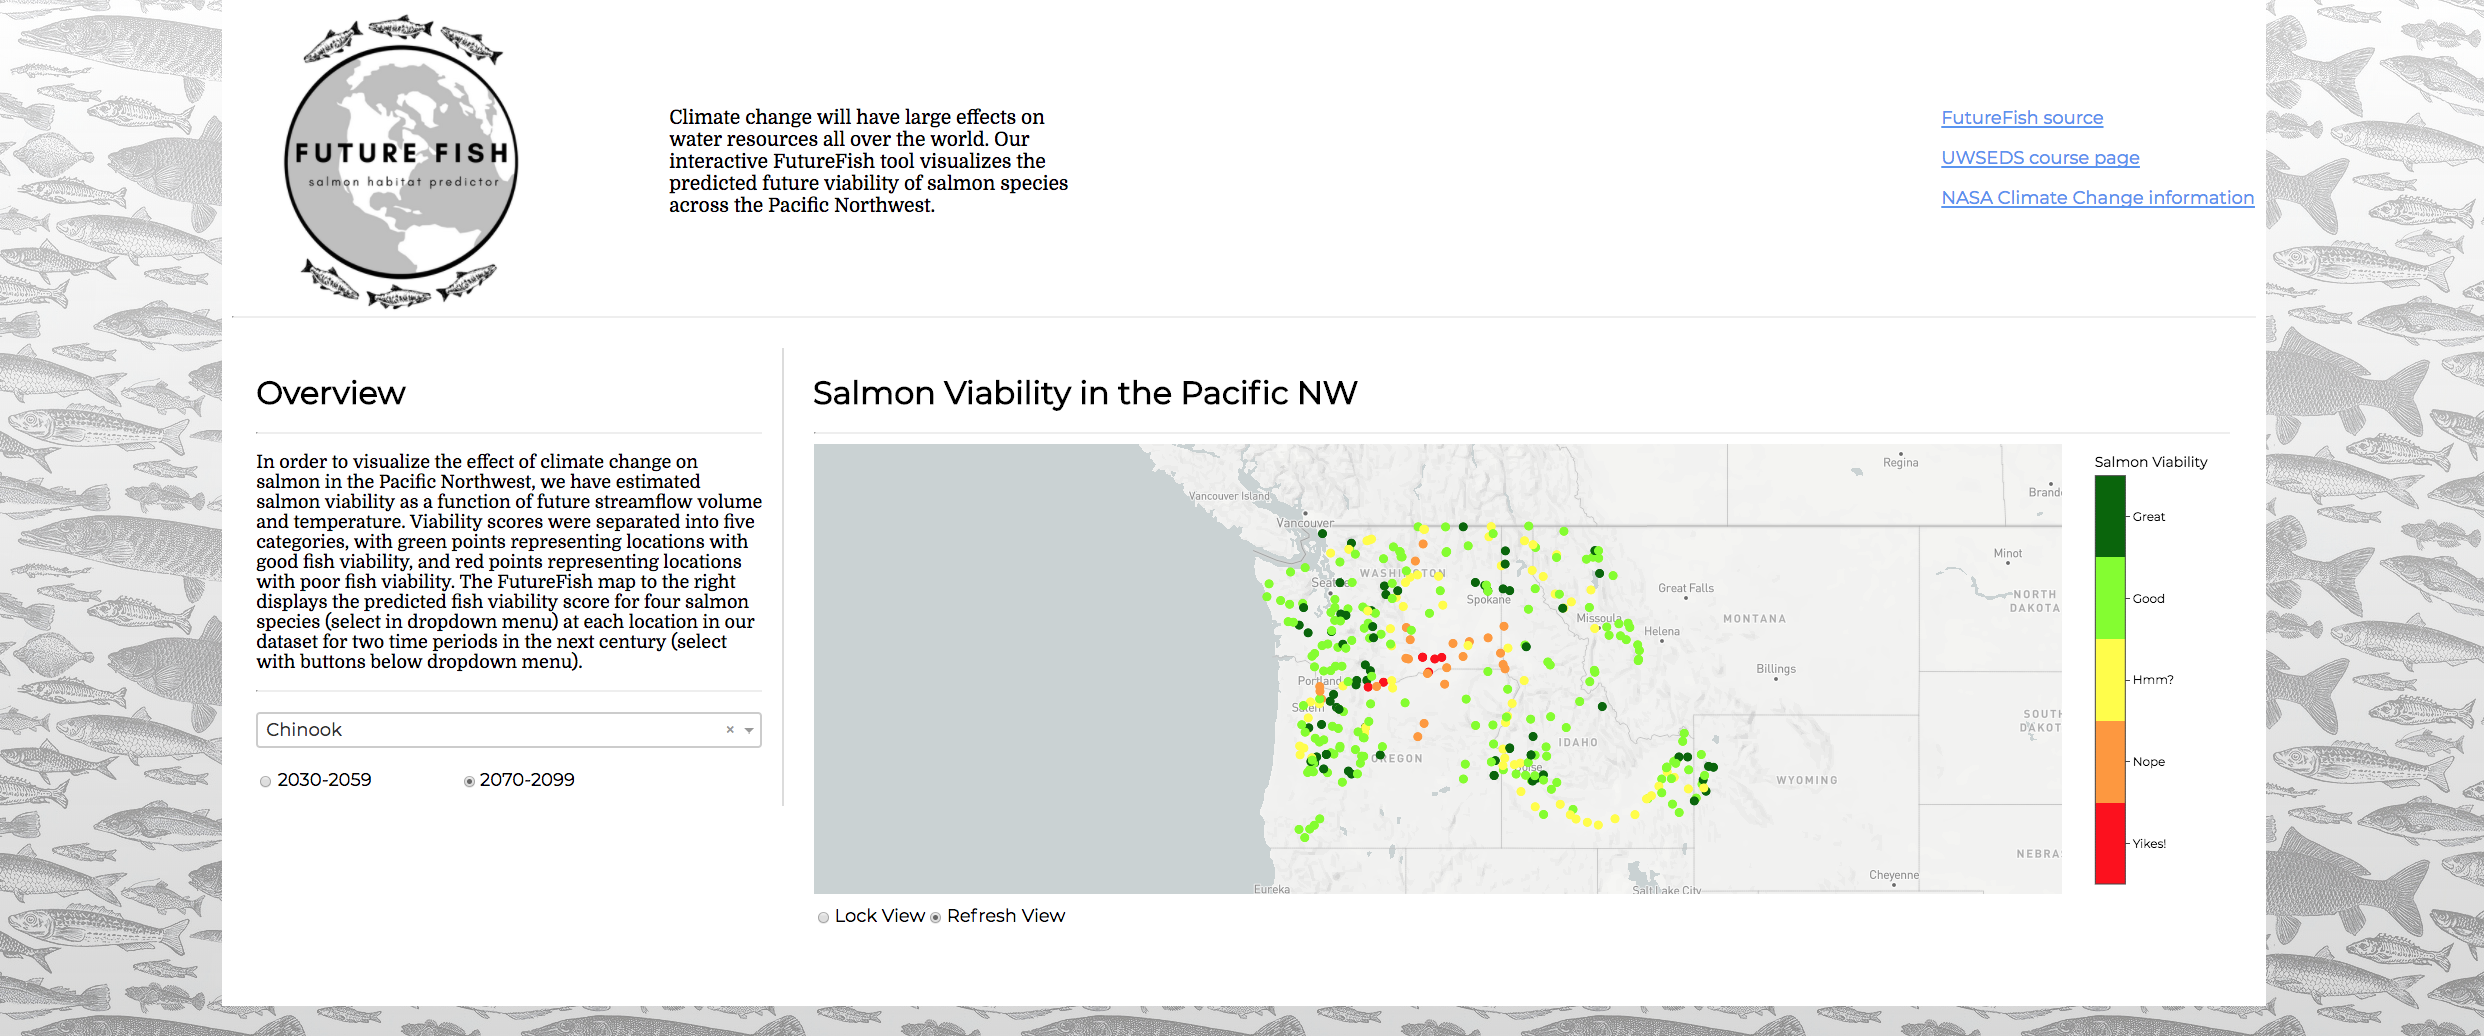
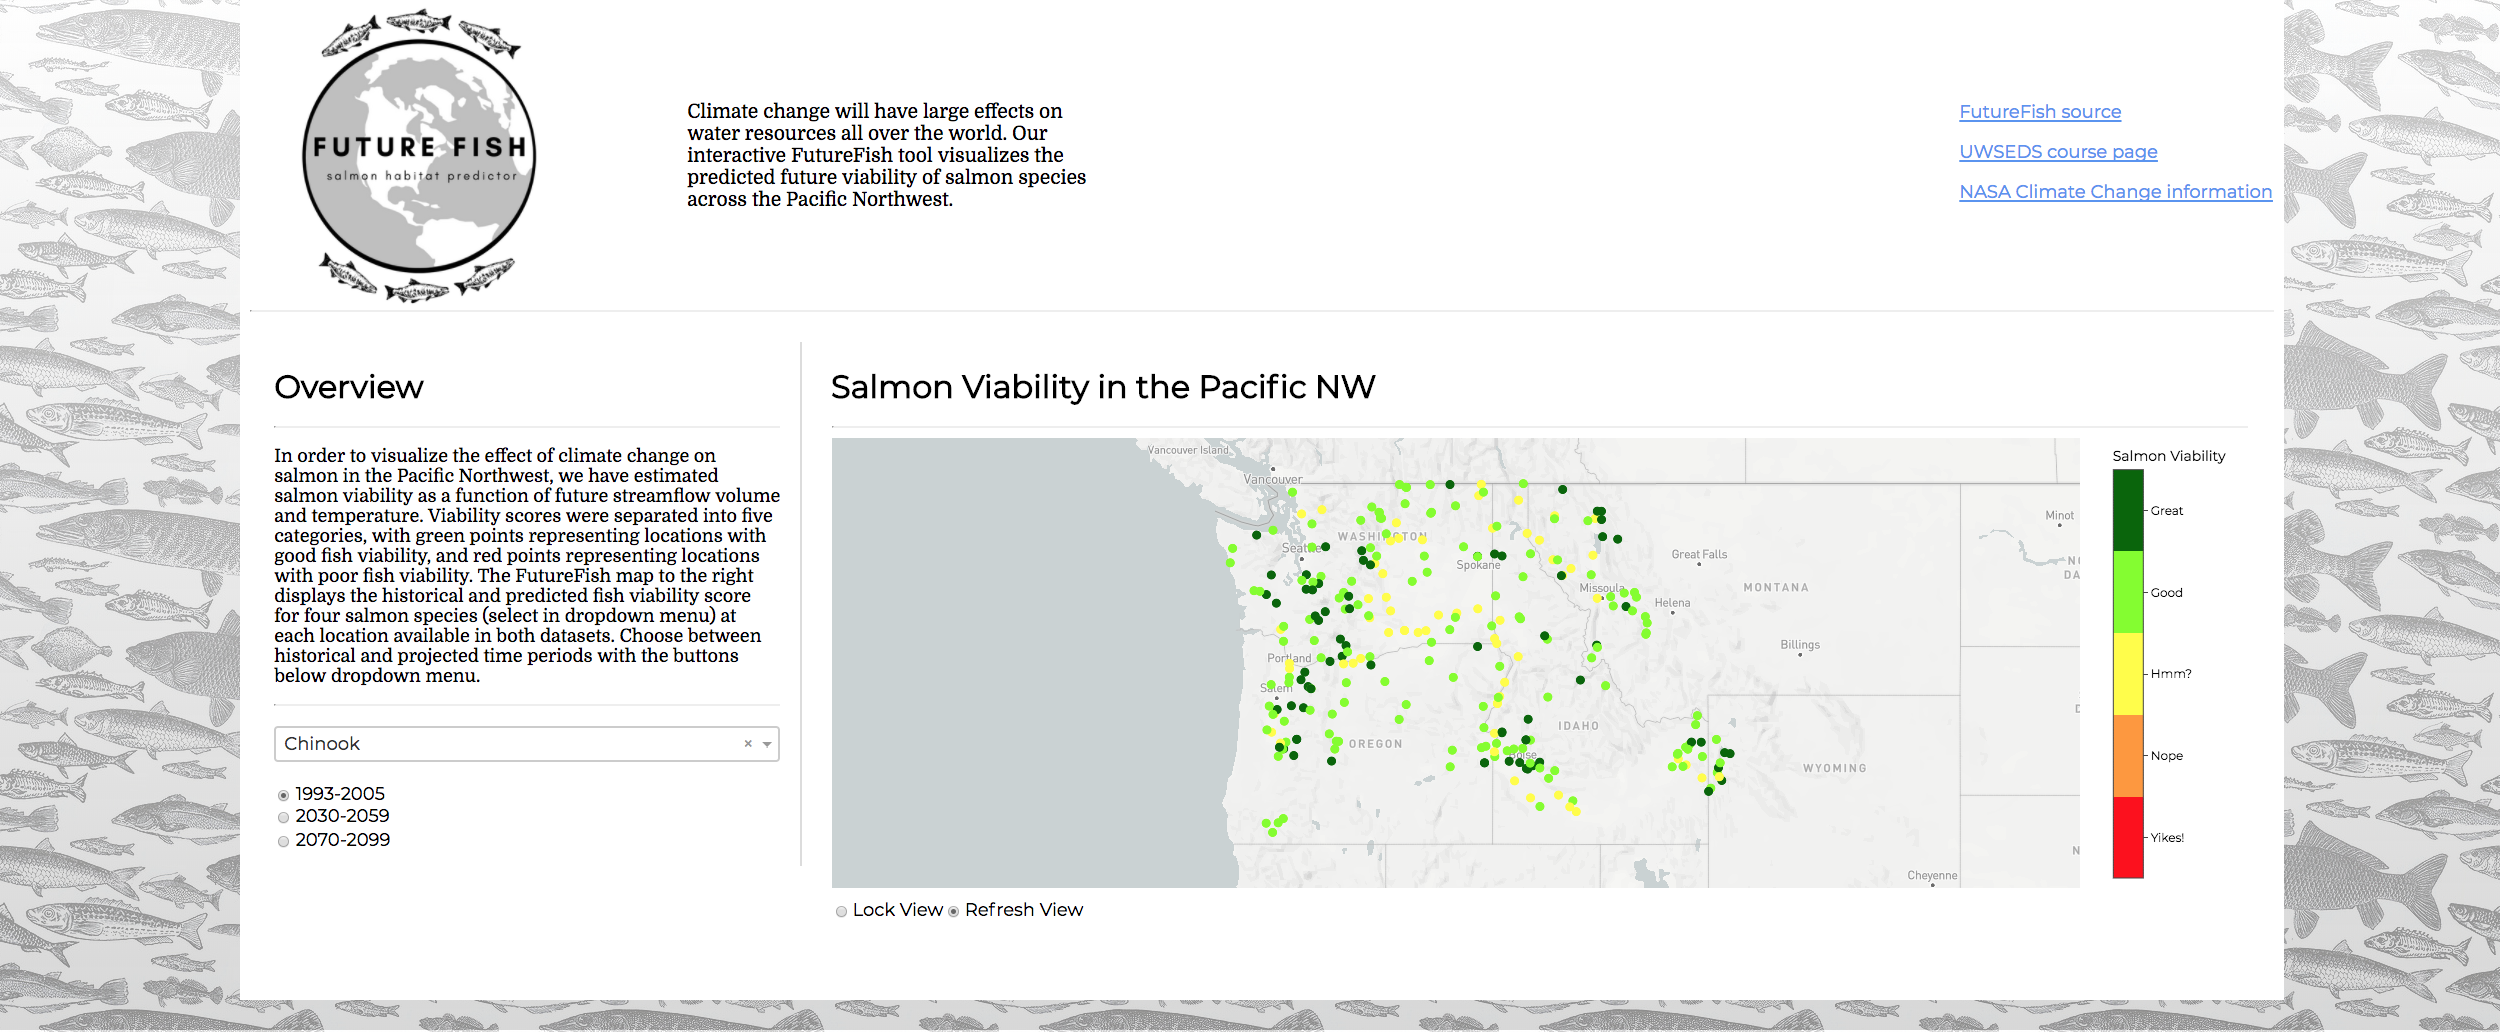
Updating how_to_guide.md and images to show historical data.

diff --git a/examples/how_to_guide.md b/examples/how_to_guide.md
@@ -47,7 +47,7 @@ http://127.0.0.1:5000/
     The FutureFish tool is meant to help visualize where salmon may swim in the future. Choose a time period of interest with the buttons below the dropdown menu. 
 
 <p align="center">
-  <img src="https://github.com/UWSEDS-aut17/uwseds-group-nw-climate-crew/blob/master/futurefish/resources/images/time_button.png">
+  <img src="https://github.com/UWSEDS-aut17/uwseds-group-nw-climate-crew/blob/master/futurefish/resources/images/time_buttons.png">
 </p>
 
 3. __Lock View feature__: 
